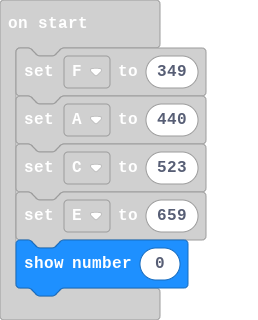
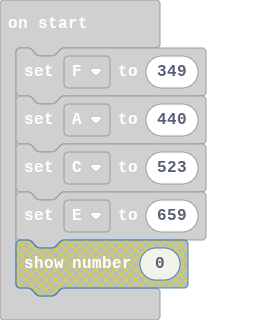
Update main.blocks, main.ts

Changed region(s): [[0.062, 0.75, 0.7442, 0.9375]]

diff --git a/main.ts b/main.ts
@@ -32,4 +32,3 @@ F = 349
 A = 440
 C = 523
 E = 659
-basic.showNumber(0)
